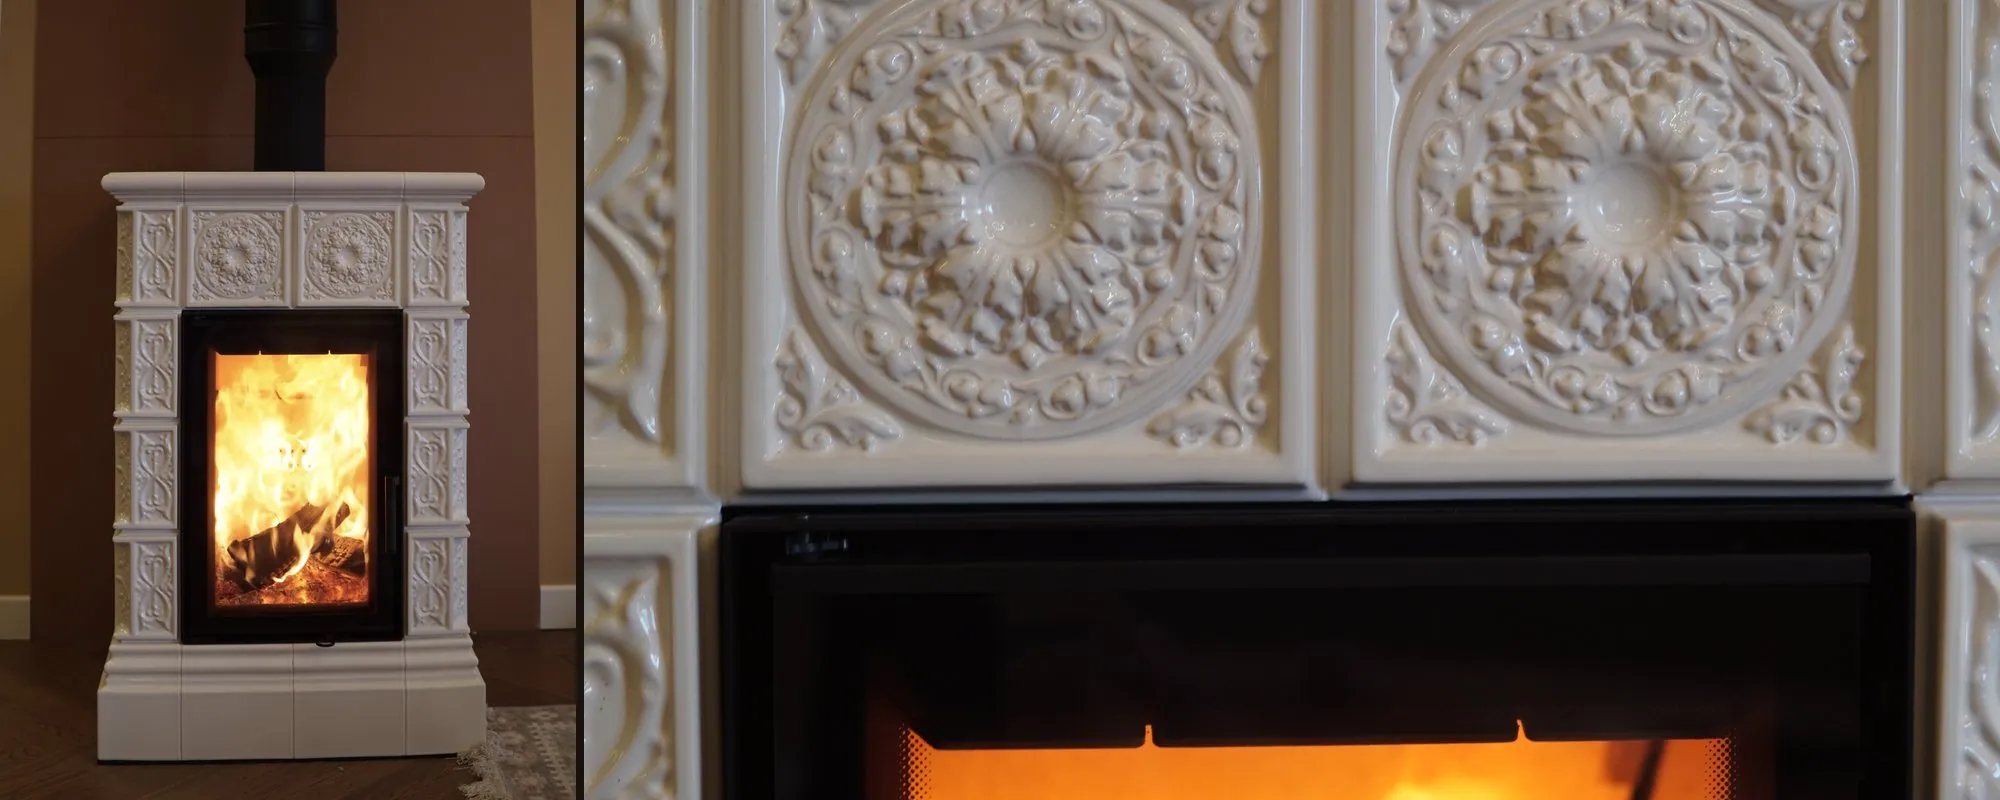
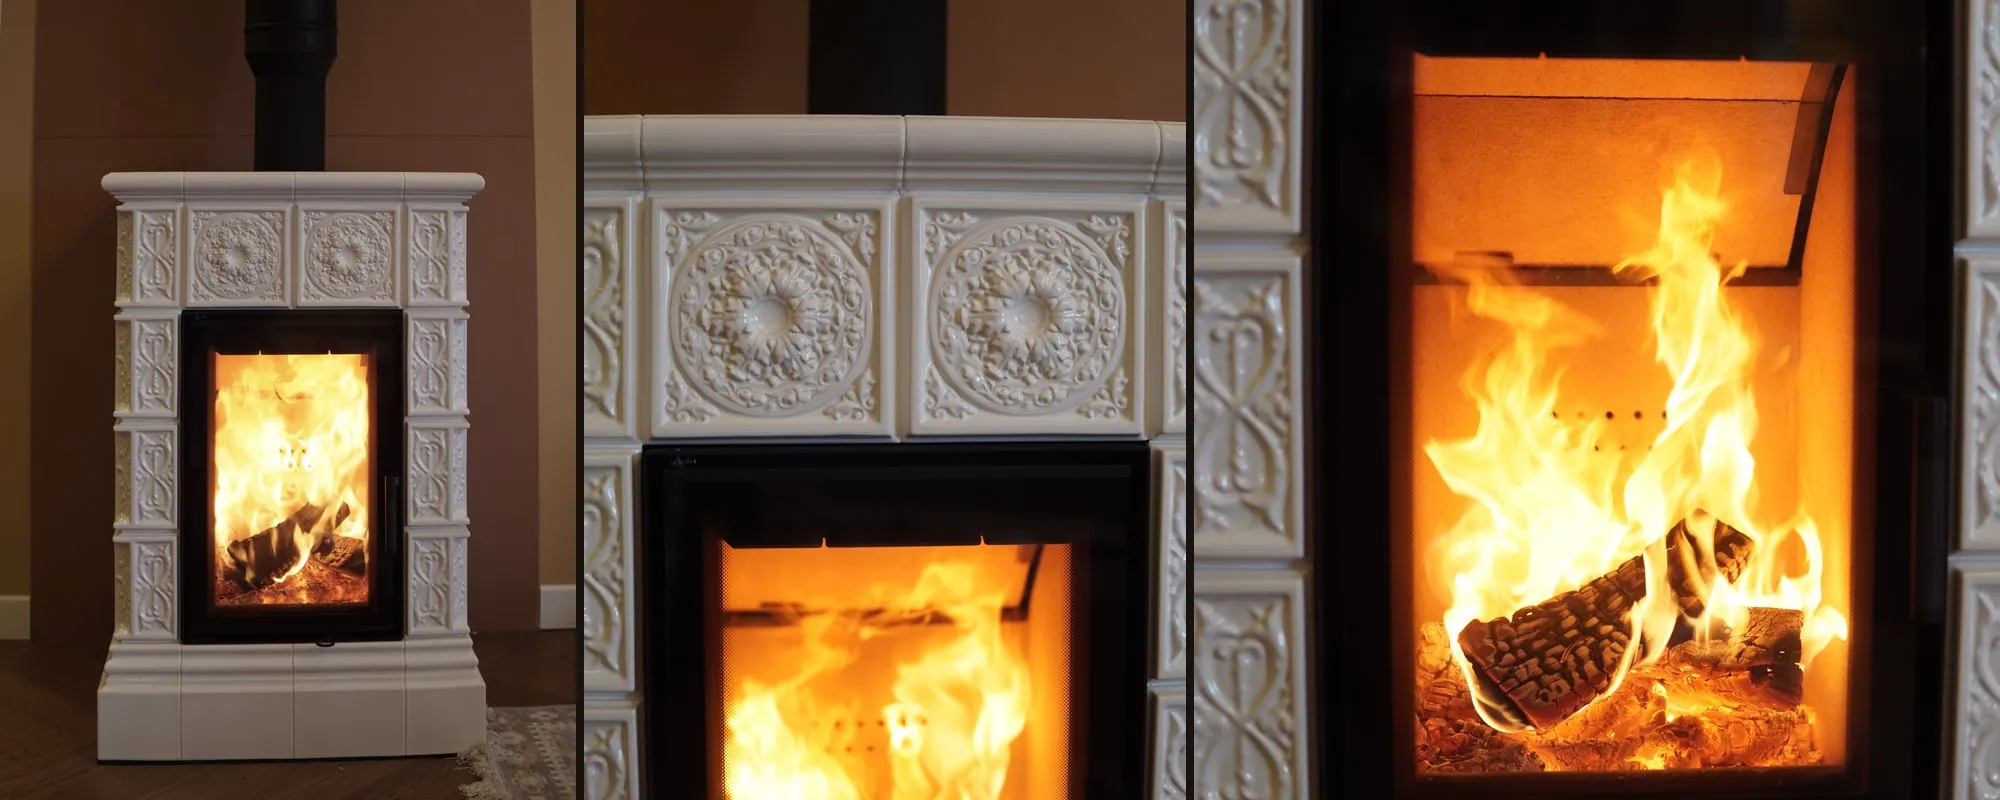
Коллаж блока сравнения печей: три кадра, ничего не обрезано

diff --git a/docs/by/content/pechi-kaminy/data.js b/docs/by/content/pechi-kaminy/data.js
@@ -430,7 +430,7 @@ window.LP = {
    "Срок поставки от 2 недель, монтаж 1–2 дня.",
    "Тоже премиальная изразцовая облицовка и тоже гарантия 50 лет на керамику, но за существенно меньшую цену."
   ],
-  "media": "assets/img/why/pechi-kaminy.webp?v=2",
+  "media": "assets/img/why/pechi-kaminy.webp?v=3",
   "single": true,
   "mediaHi": ""
  },

diff --git a/docs/kz/content/pechi-kaminy/data.js b/docs/kz/content/pechi-kaminy/data.js
@@ -430,7 +430,7 @@ window.LP = {
    "Срок поставки от 2 недель, монтаж 1–2 дня.",
    "Тоже премиальная изразцовая облицовка и тоже гарантия 50 лет на керамику, но за существенно меньшую цену."
   ],
-  "media": "assets/img/why/pechi-kaminy.webp?v=2",
+  "media": "assets/img/why/pechi-kaminy.webp?v=3",
   "single": true,
   "mediaHi": ""
  },

diff --git a/build.py b/build.py
@@ -1571,7 +1571,7 @@ WHY_MEDIA = {
     'otopitelnye-pechi': 'img/04.webp',
     'izraztsy': 'assets/img/why/izraztsy.webp',
     # Печи-камины: живое фото Дорфа с объекта (коллаж), Иван 18.09.2026.
-    'pechi-kaminy': 'assets/img/why/pechi-kaminy.webp?v=2',
+    'pechi-kaminy': 'assets/img/why/pechi-kaminy.webp?v=3',
 }
 
 
